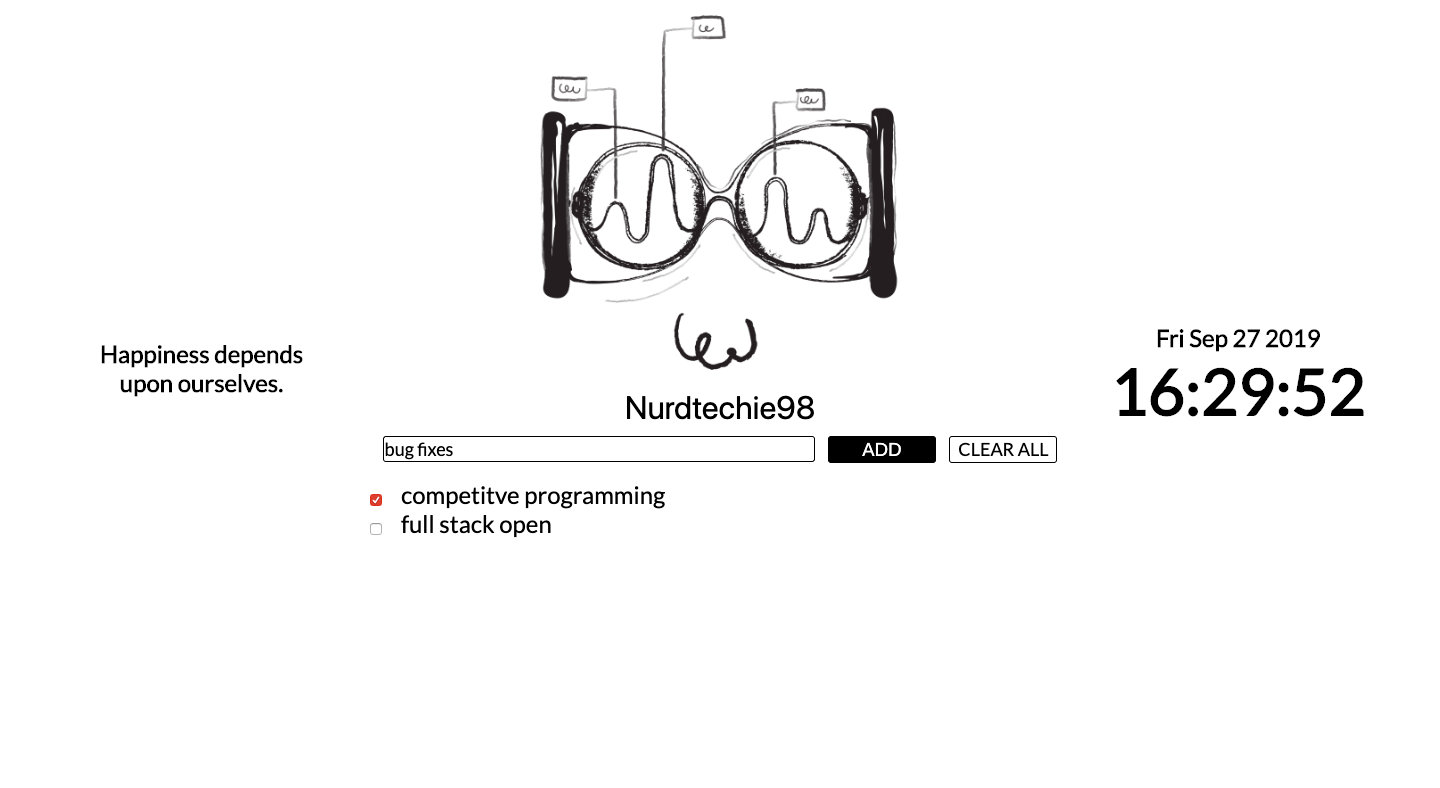
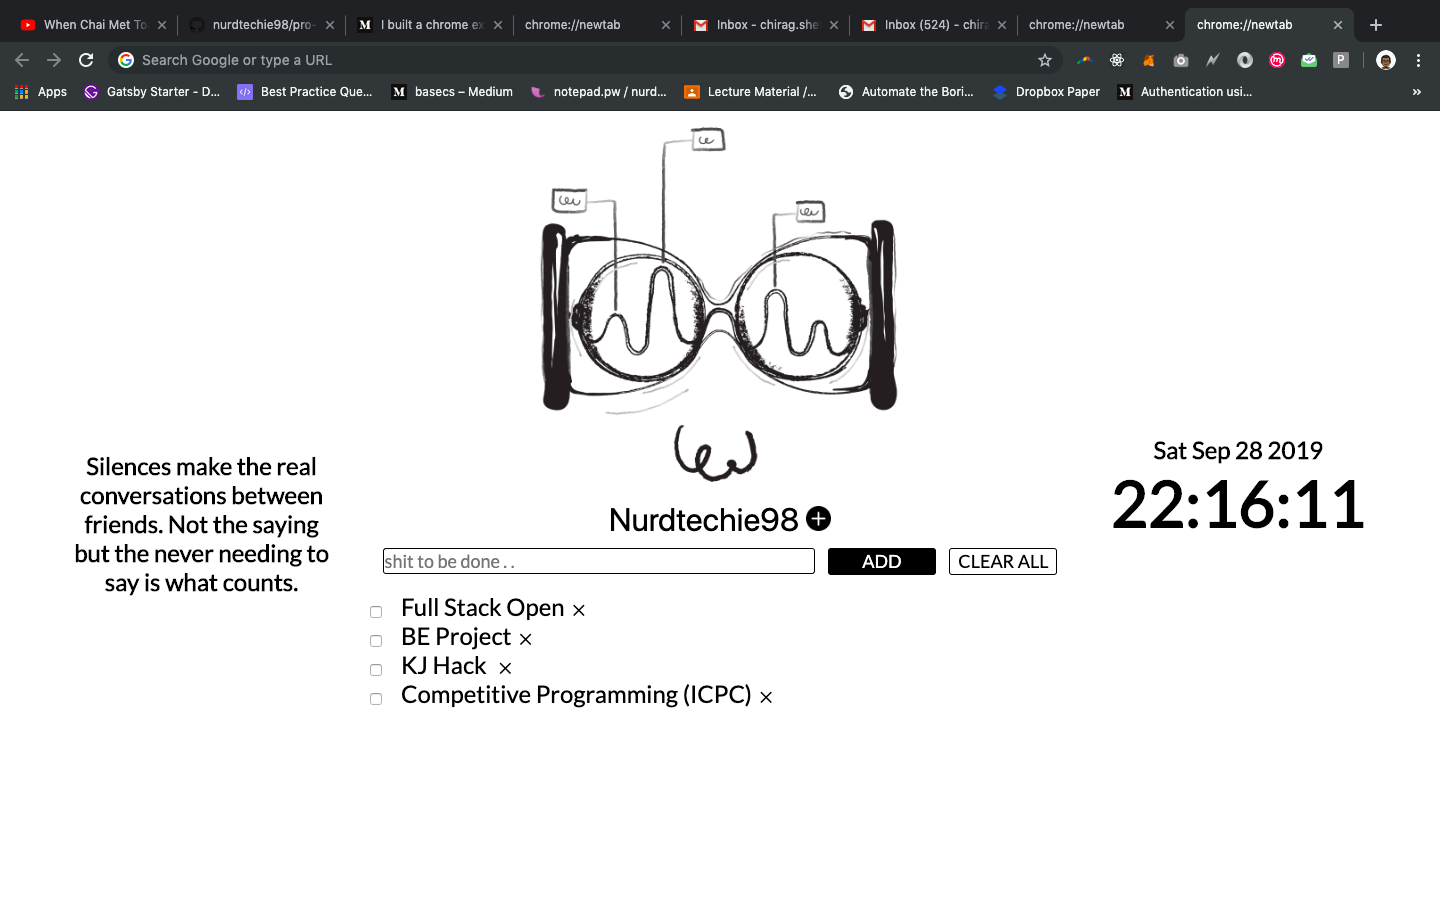
add toggle button and delete indvidual item

Changed region(s): [[0.0, 0.0, 1.0, 0.7919], [0.0312, 0.4264, 0.2188, 0.6701], [0.75, 0.3959, 0.9688, 0.6091]]

diff --git a/newtab.js b/newtab.js
@@ -16,7 +16,7 @@ document.addEventListener("DOMContentLoaded", function() {
     nameButton.addEventListener('click',toggle);
     try{
         chrome.storage.sync.get('todo', function({todo}) {
-            console.log('Value is get to ',toggle);
+            //console.log('Value is get to ',toggle);
             todo.push(input.value);
             renderTask(todo)
         })
@@ -44,7 +44,7 @@ var add = async()=>{
     check.type = 'checkbox';
     check.id = id;
     const del = document.createElement('div');
-    del.textContent = 'x';
+    del.innerHTML = "&#10005;";
     del.classList.add('delete-button');
     const label = document.createElement('label');
     label.id = 'label-'+id;
@@ -52,12 +52,14 @@ var add = async()=>{
     label.textContent = input.value;
     newtask.appendChild(check);
     newtask.appendChild(label);
+    newtask.appendChild(del);
+    del.addEventListener('click',()=>{deleteTodo('label-'+id)});
     newtask.className+='task'
     val = input.value
     tasklist.appendChild(newtask);
         try{
             chrome.storage.sync.get('todo', function({todo}) {
-                console.log('Value is get to ',todo);
+                //console.log('Value is get to ',todo);
                 if(todo==undefined)
                 setValue([val]);
                 todo.push(val);
@@ -67,12 +69,13 @@ var add = async()=>{
         catch(err){
             setValue([val]);
         }
-        const setValue = (todos)=>{
-            chrome.storage.sync.set({'todo': todos}, function() {
-                console.log('Value is set to ',todos);
-            })
-        }
     input.value="";
+}
+
+const setValue = (todos)=>{
+    chrome.storage.sync.set({'todo': todos}, function() {
+        //console.log('Value is set to ',todos);
+    })
 }
 
 var renderTask = (todos)=>{
@@ -85,7 +88,7 @@ var renderTask = (todos)=>{
             check.type = 'checkbox';
             check.id = id;
             const del = document.createElement('div');
-            del.textContent = 'x';
+            del.innerHTML = "&#10005;";
             del.classList.add('delete-button');
             const label = document.createElement('label');
             label.id = 'label-'+id;
@@ -93,6 +96,8 @@ var renderTask = (todos)=>{
             label.textContent = element;
             newtask.appendChild(check);
             newtask.appendChild(label);
+            newtask.appendChild(del);
+            del.addEventListener('click',()=>{deleteTodo('label-'+id)});
             newtask.className+='task'
             tasklist.appendChild(newtask);
         }
@@ -100,7 +105,7 @@ var renderTask = (todos)=>{
 }
 const clear = ()=>{
     chrome.storage.sync.clear(()=>{
-        console.log("cleared");
+        //console.log("cleared");
     });
     const tasklist = document.getElementById("task-list");
     tasklist.innerHTML="";
@@ -112,3 +117,18 @@ const toggle = ()=>{
     else
     document.getElementById("input").style.display = "block";
 }
+
+const deleteTodo = (id)=>{
+    const label = document.getElementById(id);
+    const parent = label.parentNode;
+    const d_todo = label.textContent;
+    //console.log("del value:",d_todo);
+    chrome.storage.sync.get('todo', function({todo}) {
+        //console.log('Value is get to:::',todo);
+        new_todo = todo.filter(c_todo=>c_todo!=d_todo)
+        setValue(new_todo)
+    });
+    document.getElementById('task-list').removeChild(parent);
+}
+
+//chrome.storage.sync.clear();

diff --git a/newtab.css b/newtab.css
@@ -152,4 +152,24 @@ label{
     cursor: pointer;
 }
 
+.rotate{
+    max-width: 25px;
+    transition: 0.70s;
+    -webkit-transition: 0.70s;
+    -moz-transition: 0.70s;
+    -ms-transition: 0.70s;
+    -o-transition: 0.70s;
+}
 
+.rotate:hover{
+    transition: 0.70s;
+    -webkit-transition: 0.70s;
+    -moz-transition: 0.70s;
+    -ms-transition: 0.70s;
+    -o-transition: 0.70s;
+    -webkit-transform: rotate(180deg);
+    -moz-transform: rotate(180deg);
+    -o-transform: rotate(180deg);
+    -ms-transform: rotate(180deg);
+    transform: rotate(180deg);
+}

diff --git a/newtab.html b/newtab.html
@@ -25,7 +25,7 @@
         </div>
     </div>
     <div id="todo">
-        <p id="tiktok">Nurdtechie98</p>
+        <p id="tiktok">Nurdtechie98   <img class="rotate" src="./plus.png">
         <div id="input">
             <input id="new-todo" placeholder="shit to be done . .">
             <input type="button" class="button" id="save" value="ADD">
